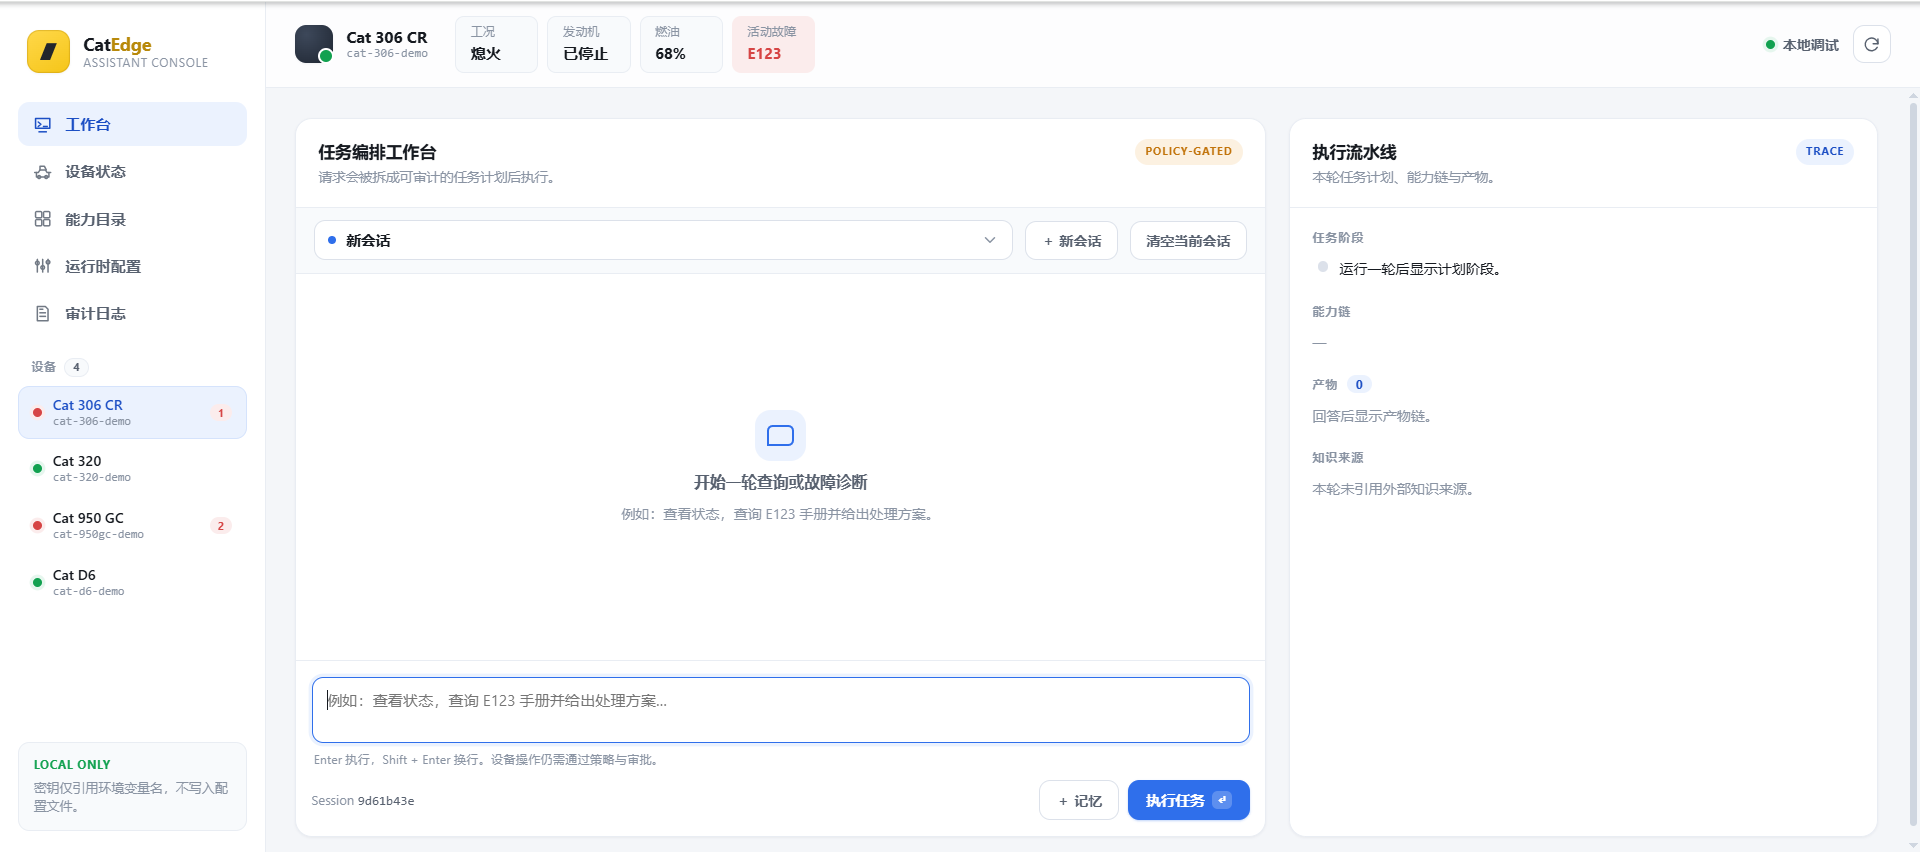
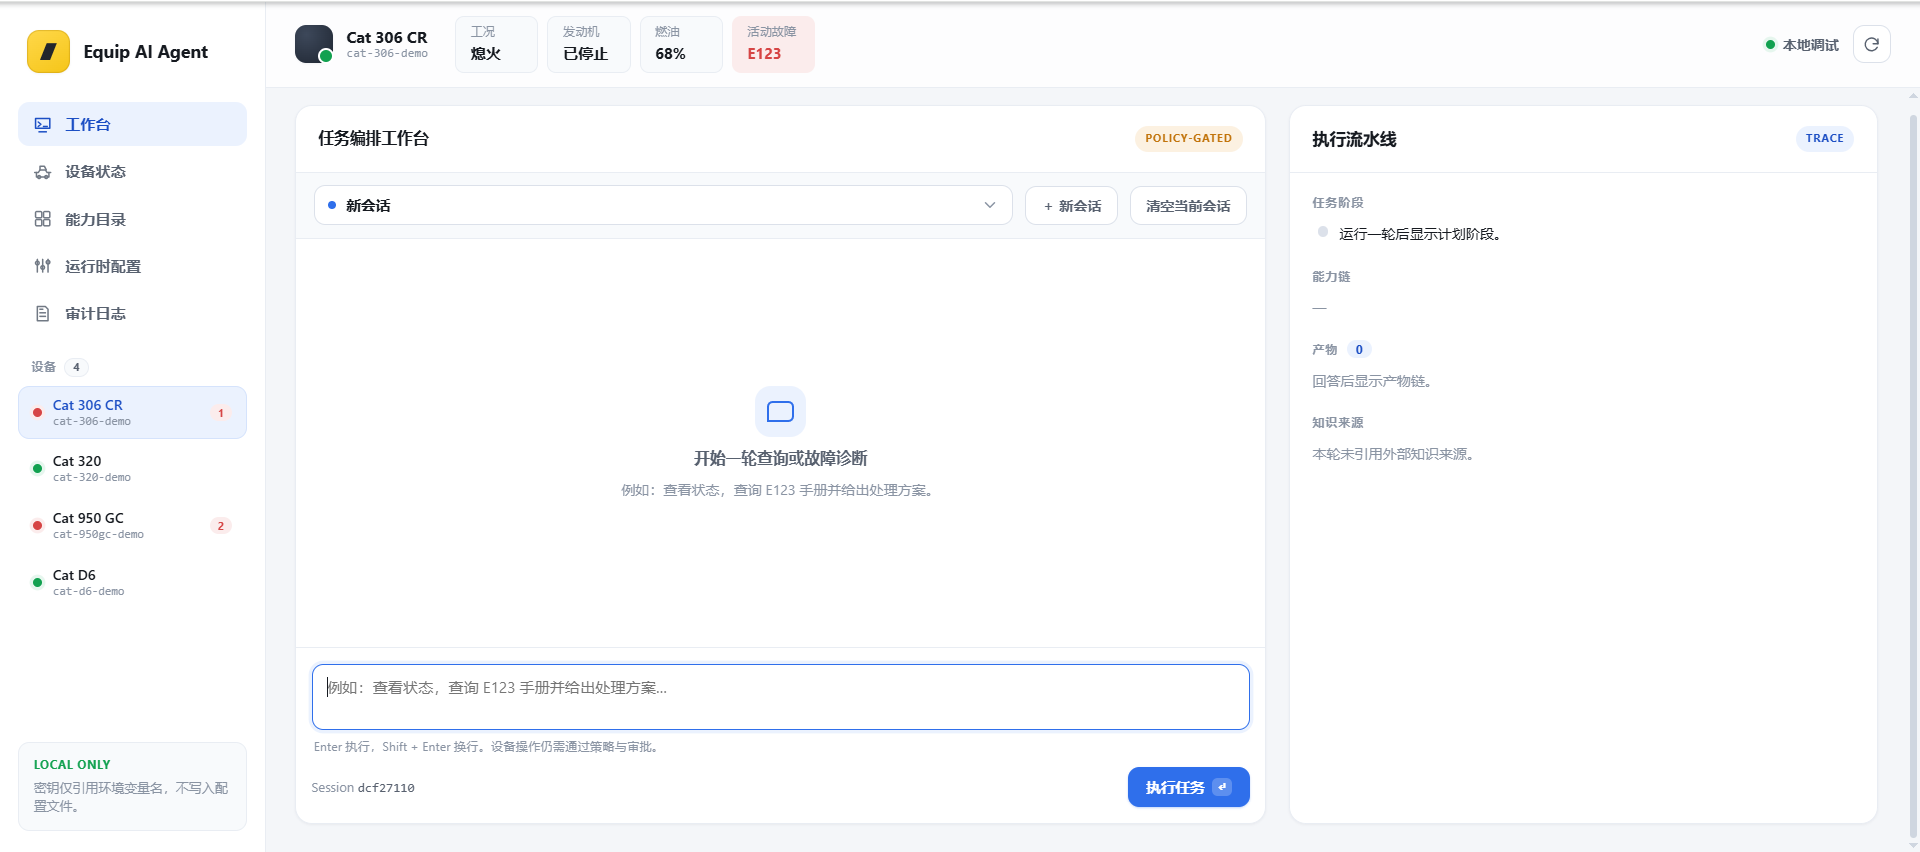
README0831

diff --git a/README.md b/README.md
@@ -103,6 +103,8 @@ Equip AI Agent 把"问状态、查故障、给方案"装进一台部署在设备
 - **处置建议与审批** —— `action.propose` 生成操作员审阅的处置方案，用户确认后按同一计划执行
 - **多 IM 渠道** —— QQ / 微信 / Telegram / Discord / Slack / 飞书 / 钉钉，webhook 免 SDK 接入
 - **语音网关** —— 替换 ASR/TTS 两个端口即可接入语音交互，低置信度自动返回澄清话术
+- **语音网关** —— 替换 ASR/TTS 两个端口即可接入，低置信度自动返回澄清话术
+
 
 ### 🔧 技术特性
 
